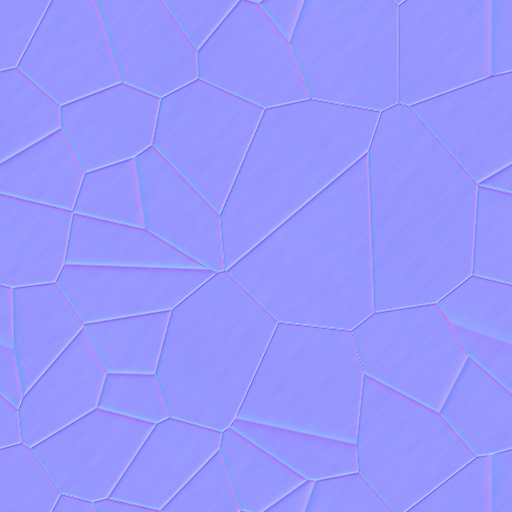
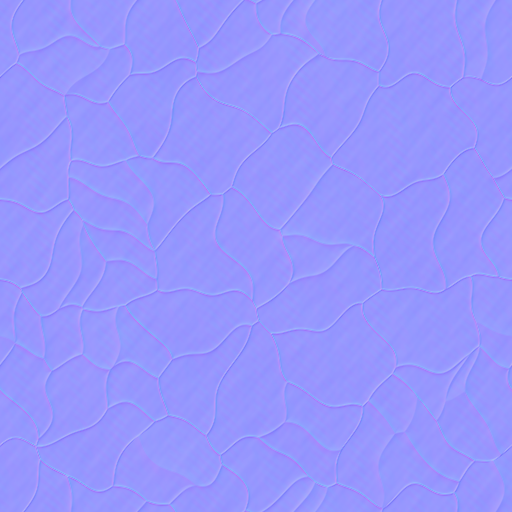
native-pc/R04: remove road centre stamps and verify command-built farmland

diff --git a/app/src/androidTest/java/game/sanguo/mobile/NativeR04Instrumentation.java b/app/src/androidTest/java/game/sanguo/mobile/NativeR04Instrumentation.java
@@ -62,9 +62,32 @@ public final class NativeR04Instrumentation extends SceneInstrumentation {
         }
         runOnMainSync(()->world=SessionProbe.view(activity));check(Arrays.equals(before,SaveCodec.encode(world)),"all render qualities and cameras preserve full authority bytes");
         commandFlow();shot("r04-command-result");
-        // Use a real farm if supplied by official scenario/turn; otherwise report missing,
-        // never turn an empty plot or an injected fixture into accepted farmland evidence.
-        Hex farm=null;for(Domestic.Facility f:world.domestic.facilities)if(f.kind==Domestic.Kind.FARM){farm=f.hex;break;}
+        // Build through the normal authoritative command if the official start has no farm.
+        // Never inject a fixture or repaint the map to manufacture farmland evidence.
+        Hex farm=null;for(Domestic.Facility f:world.domestic.facilities)if(f.kind==Domestic.Kind.FARM&&f.remaining==0){farm=f.hex;break;}
+        if(farm==null){
+            int cityId=-1,officerId=-1;Hex plot=null;
+            outer:for(World.City city:world.cities)if(city.owner==world.player){
+                for(World.Officer officer:world.idle(city))for(Hex h:world.domestic.buildSites(city.id)){
+                    World probe=SaveCodec.decode(SaveCodec.encode(world));
+                    if(probe.domestic.build(city.id,officer.id,Domestic.Kind.FARM,h).ok){cityId=city.id;officerId=officer.id;plot=h;break outer;}
+                }
+            }
+            check(plot!=null,"legal ordinary farm construction available");
+            final int c=cityId,o=officerId;final Hex h=plot;
+            World reference=SaveCodec.decode(SaveCodec.encode(world));check(reference.domestic.build(c,o,Domestic.Kind.FARM,h).ok,"reference farm build");
+            runOnMainSync(()->{check(SessionProbe.command(activity,w->w.domestic.build(c,o,Domestic.Kind.FARM,h)).ok,"normal GameSession farm build");world=SessionProbe.view(activity);});
+            check(Arrays.equals(SaveCodec.encode(reference),SaveCodec.encode(world)),"farm build preserves command parity");
+            for(int turn=0;turn<4&&world.domestic.at(h).remaining>0;turn++){
+                runOnMainSync(()->invoke("advanceTurn",new Class<?>[0]));check(reference.nextTurn().ok,"reference construction turn");
+                long deadline=SystemClock.uptimeMillis()+120000;
+                while((Boolean)field(activity,"aiRunning")&&SystemClock.uptimeMillis()<deadline)settle();
+                check(!(Boolean)field(activity,"aiRunning"),"farm construction turn finished");
+                runOnMainSync(()->world=SessionProbe.view(activity));
+                check(Arrays.equals(SaveCodec.encode(reference),SaveCodec.encode(world)),"farm construction full-turn parity");
+            }
+            check(world.domestic.at(h)!=null&&world.domestic.at(h).remaining==0,"actual farm completed by normal turns");farm=h;
+        }
         if(farm!=null){final Hex target=farm;FilamentMapView fv=spatial();
             for(float span:new float[]{8,24,70})for(float yaw:new float[]{0,90}){
                 runOnMainSync(()->{fv.center(target);fv.camera.span=span;fv.camera.yaw=yaw;});shot("r04-farm-actual-"+(int)span+"-"+(int)yaw);

diff --git a/app/src/test/java/game/sanguo/mobile/NativeR04Test.java b/app/src/test/java/game/sanguo/mobile/NativeR04Test.java
@@ -11,7 +11,7 @@ public final class NativeR04Test {
         for(float[] a:new float[][]{{0,0,0,0},{-1,Float.NaN,Float.POSITIVE_INFINITY,0},{2,3,1,4}}){TerrainMaterialField.normalize(a);weights(a);}
         for(boolean staggered:new boolean[]{false,true}){
             World w=new World(64,64);w.columnStaggered=staggered;
-            for(int q=0;q<64;q++)for(int r=0;r<64;r++)w.terrain[q][r]=q<16?World.Terrain.PLAIN:q<32?World.Terrain.SAND:q<48?World.Terrain.MOUNTAIN:World.Terrain.FOREST;
+            for(int q=0;q<64;q++)for(int r=0;r<64;r++)w.terrain[q][r]=q<16?World.Terrain.PLAIN:q<32?World.Terrain.SAND:q<48?World.Terrain.MOUNTAIN:World.Terrain.ROAD;
             for(int q=0;q<64;q++)w.terrain[q][8]=World.Terrain.WATER;
             for(int r=16;r<48;r++)w.terrain[40][r]=World.Terrain.MOUNTAIN_PATH;
             String before=Arrays.deepToString(w.terrain);MapSceneSnapshot.Ground g=new MapSceneSnapshot.Ground(w);TerrainMaterialField f=new TerrainMaterialField(g);
@@ -25,6 +25,10 @@ public final class NativeR04Test {
             float[] sand=f.sample(g.grid.x(24,32),g.grid.z(24,32),1);
             float[] rock=f.sample(g.grid.x(35,32),g.grid.z(35,32));
             float[] path=f.sample(g.grid.x(40,32),g.grid.z(40,32));
+            float roadX=g.grid.x(56,32),roadZ=g.grid.z(56,32);
+            float[] roadCentre=f.sample(roadX,roadZ),roadBetween=f.sample(roadX+.3f,roadZ+.2f);
+            for(int k=0;k<4;k++)check(Math.abs(roadCentre[k]-roadBetween[k])<.0001,"dense ordinary road has no repeated centre stamp");
+            check(Math.abs(roadCentre[1]-.18f)<.0001,"ordinary road retains prior continuous biome identity");
             check(grass[0]>.85,"grass region identity");check(sand[2]>.98,"sand not converted into generic mud by slope");
             check(rock[3]>.85,"rock identity");check(path[1]>.70,"hard path centre remains soil");
             check(before.equals(Arrays.deepToString(w.terrain)),"synthetic map unchanged");

diff --git a/app/src/main/java/game/sanguo/mobile/TerrainMaterialField.java b/app/src/main/java/game/sanguo/mobile/TerrainMaterialField.java
@@ -36,14 +36,15 @@ final class TerrainMaterialField {
         float safeSlope=Float.isFinite(slope)?Math.max(0,slope):0;
         float exposed=Math.min(.55f,Math.max(0,safeSlope-.12f))*(1-w[2]);
         float transfer=w[0]*exposed;w[0]-=transfer;w[1]+=transfer*.4f;w[3]+=transfer*.6f;
-        // Keep site/path centres recognisable. These local masks are NOT widened with
+        // Keep site/mountain-path centres recognisable. Ordinary ROAD retains its
+        // existing grass/soil biome treatment: centre stamps make dense road regions polka-dotted. These local masks are NOT widened with
         // the biome filter, and never modify the independent hard land/water footprint.
         float constraint=0;
         for(int r=center.r-1;r<=center.r+1;r++)for(int q=center.q-1;q<=center.q+1;q++){
             Hex h=new Hex(q,r);if(!ground.valid(h)||ground.surface.water(h))continue;
             World.Terrain type=TYPES[ground.terrain[r*ground.width+q]];
             boolean site=ground.bases.contains(h);
-            if(!site&&type!=World.Terrain.ROAD&&type!=World.Terrain.MOUNTAIN_PATH&&type!=World.Terrain.PLANK_ROAD)continue;
+            if(!site&&type!=World.Terrain.MOUNTAIN_PATH&&type!=World.Terrain.PLANK_ROAD)continue;
             float dx=x-ground.grid.x(h),dz=z-ground.grid.z(h);
             float radius=site?.8f:.55f;
             float t=Math.max(0,1-(dx*dx+dz*dz)/(radius*radius));

diff --git a/app/src/main/java/game/sanguo/mobile/FilamentMapView.java b/app/src/main/java/game/sanguo/mobile/FilamentMapView.java
@@ -363,7 +363,7 @@ final class FilamentMapView extends FrameLayout implements SurfaceHolder.Callbac
     String startupReport(){return "source="+BuildConfig.SOURCE_REVISION+" profile="+(BuildConfig.UNITY_ENABLED?"unity-opt-in":"native")
         +" device="+android.os.Build.MODEL+" api="+android.os.Build.VERSION.SDK_INT+" abi="+java.util.Arrays.toString(android.os.Build.SUPPORTED_ABIS)
         +"\nsnapshot="+(snapshot!=null)+" surface="+(swap!=null)+" viewport="+bufferWidth+"x"+bufferHeight
-        +" session="+(sceneToken==null?"editor":sceneToken.sessionId+":"+sceneToken.generation+":"+sceneToken.revision)+" assetRevision=1.56.0/S13"
+        +" session="+(sceneToken==null?"editor":sceneToken.sessionId+":"+sceneToken.generation+":"+sceneToken.revision)+" assetRevision=1.56.0/R04"
         +" terrain_all_coarse="+distantTerrain+" mapVisualKey="+(snapshot==null?"none":snapshot.ground.mapSeed+":"+snapshot.ground.surface.overrides.hashCode())
         +" meshGeneration="+generation+" cpuChunks="+chunks.size()+" pending="+pending+" submitted="+surfaceFrames
         +" output="+outputStatus+"\ncamera="+camera.x+","+camera.z+" span="+camera.span+" tilt="+camera.tilt+" facing="+camera.facing+" yaw="+camera.yaw+"\npick="+lastPick;}

diff --git a/tools/3d/build_terrain_materials.py b/tools/3d/build_terrain_materials.py
@@ -39,11 +39,14 @@ for name,base,rough in [('grass',[105,116,78],.91),('soil',[123,108,86],.96),('s
             cx,cy=rng.random(2);dx=(x-cx+.5)%1-.5;dy=(y-cy+.5)%1-.5
             h+=rng.uniform(.03,.12)*np.exp(-(dx*dx+dy*dy)/rng.uniform(.000003,.00002))
     else:
-        points=rng.random((35,2));dist=[]
+        points=rng.random((65,2));dist=[]
+        # Periodic domain warp fractures stone without straight Voronoi slab edges.
+        rock_x=x+.018*np.sin(2*np.pi*(3*y+2*x))+.010*np.sin(2*np.pi*7*y)
+        rock_y=y+.016*np.sin(2*np.pi*(4*x-y))+.008*np.sin(2*np.pi*9*x)
         for cx,cy in points:
-            dx=(x-cx+.5)%1-.5;dy=(y-cy+.5)%1-.5;dist.append(dx*dx+dy*dy)
+            dx=(rock_x-cx+.5)%1-.5;dy=(rock_y-cy+.5)%1-.5;dist.append(dx*dx+dy*dy)
         nearest=np.sort(dist,axis=0)[:2];crack=np.exp(-(nearest[1]-nearest[0])*2000)
-        h=.4*macro+.17*fine-.65*crack
+        h=.4*macro+.24*fine-.32*crack
     rgb=np.clip(np.array(base)[None,None,:]*(1+h[:,:,None]*.28),0,255).astype('uint8')
     # Central wrap derivatives ensure matching periodic normal detail across repeat seam.
     dx=(np.roll(h,-1,axis=1)-np.roll(h,1,axis=1))*1.1
